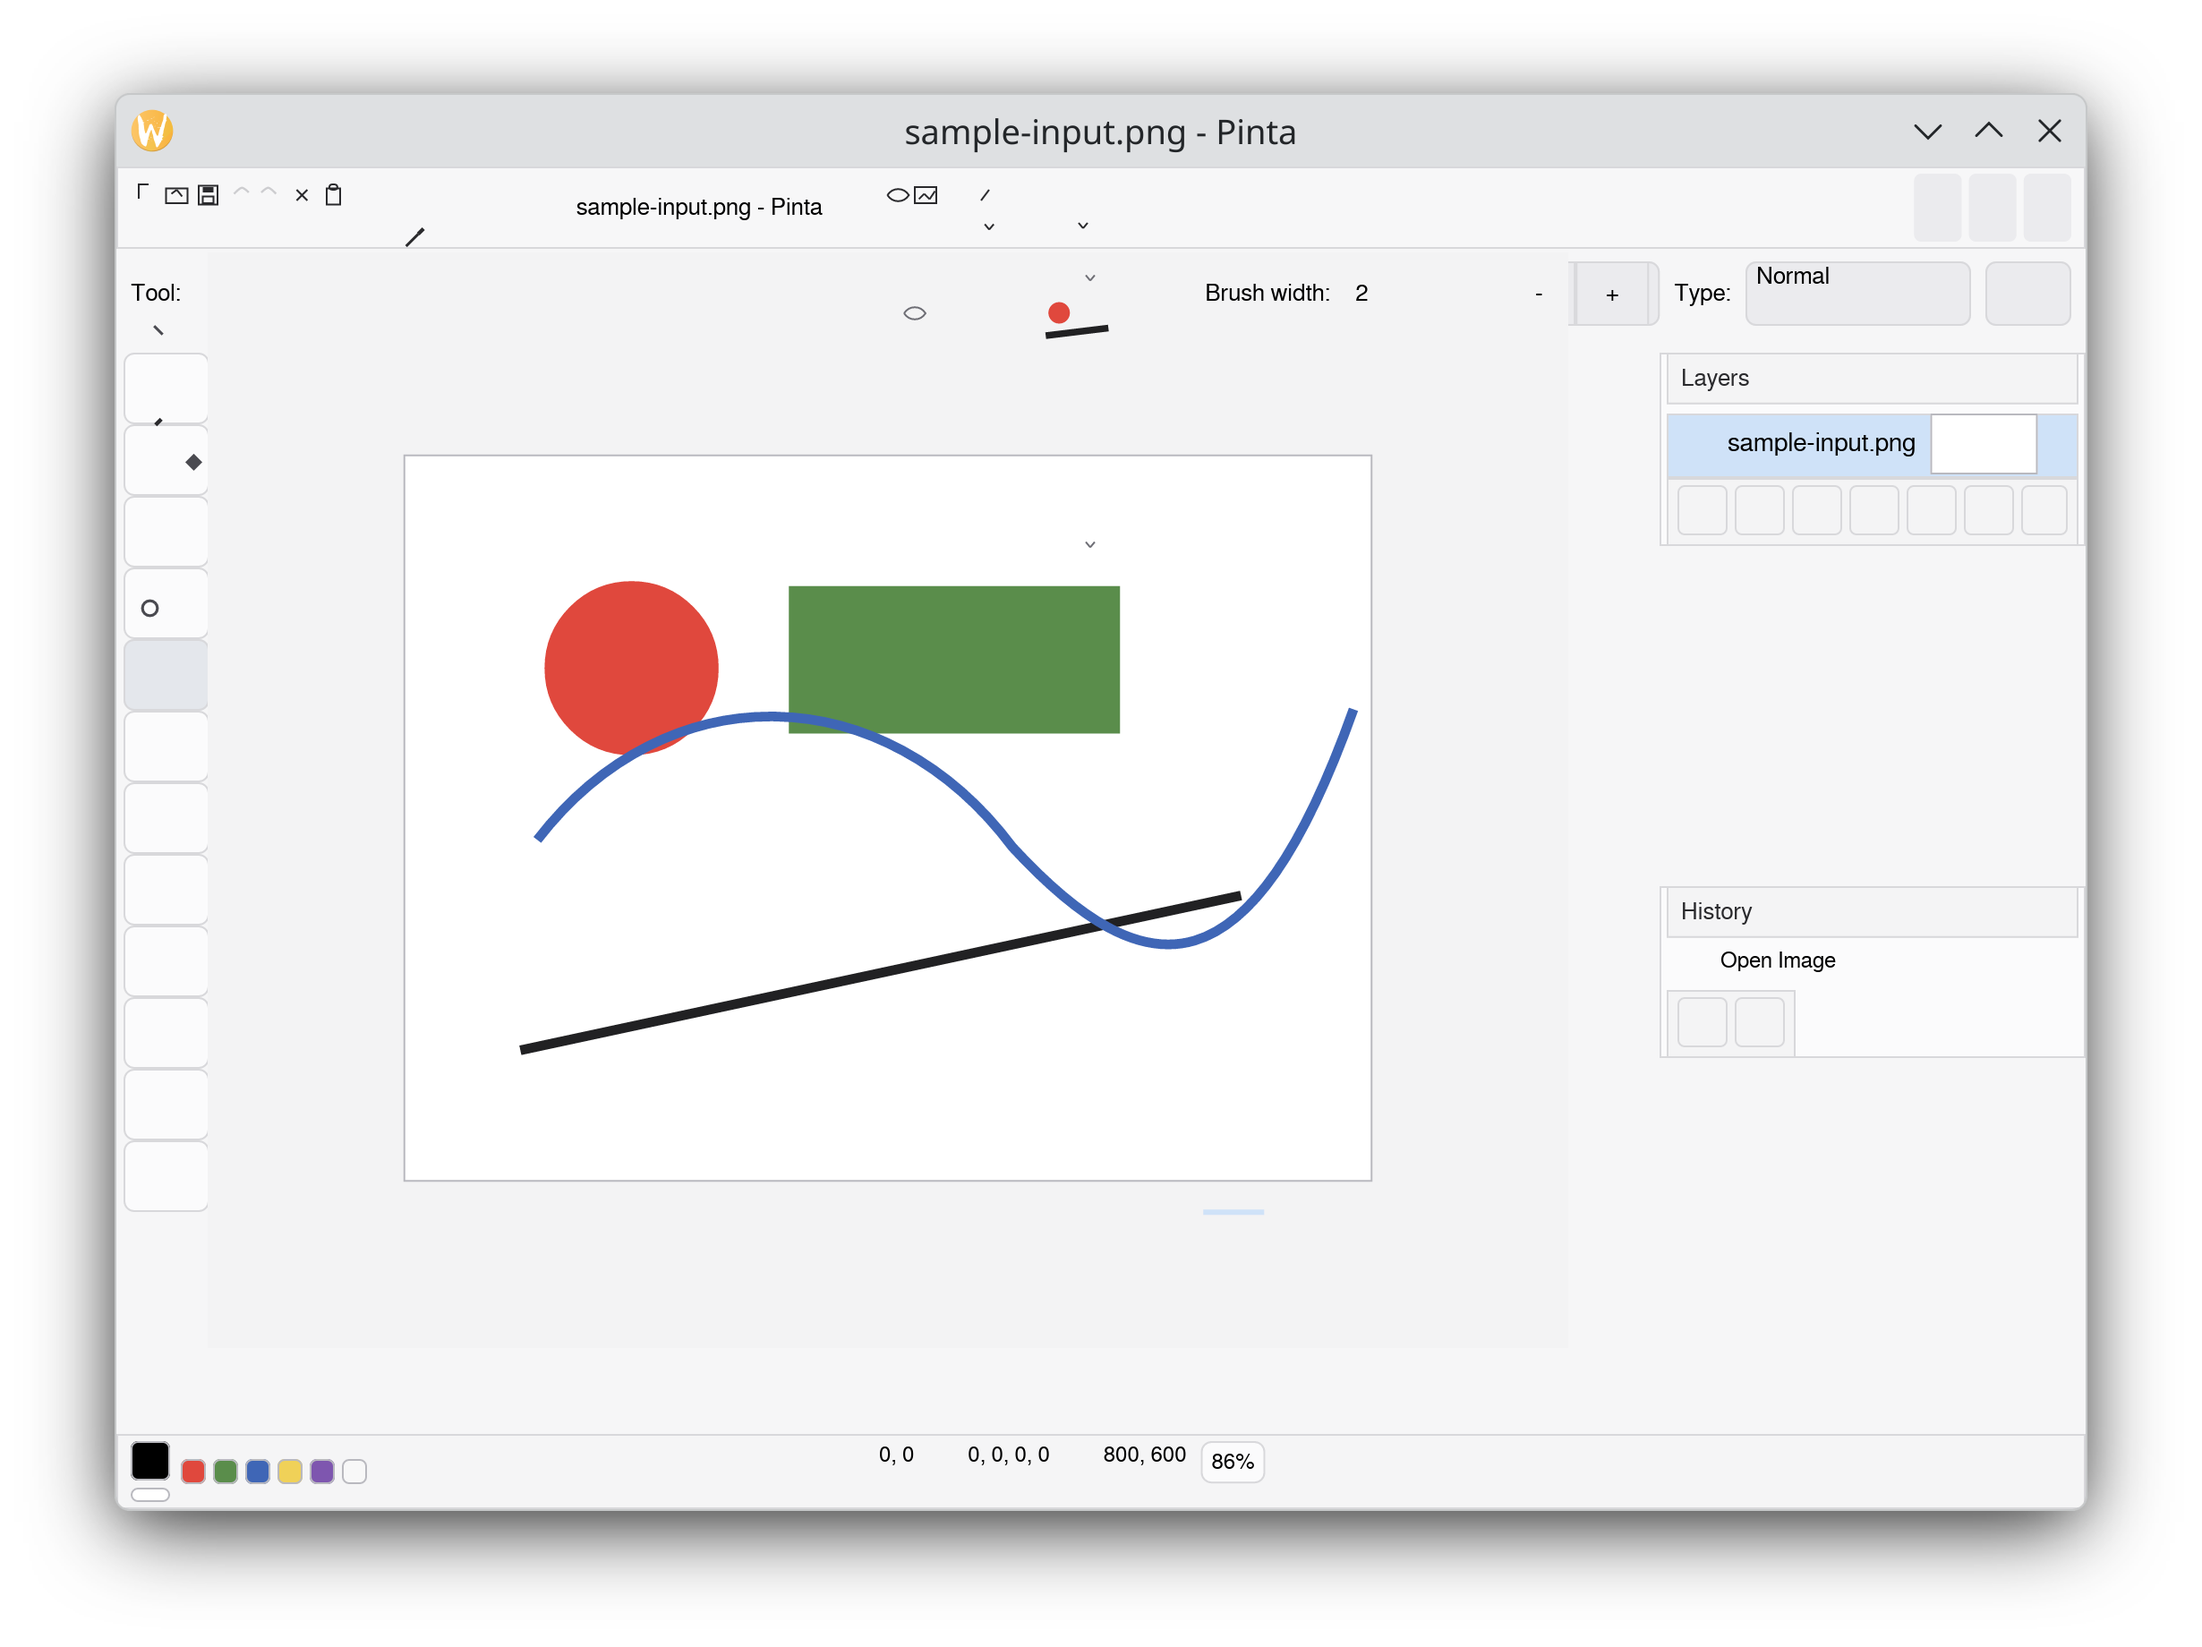
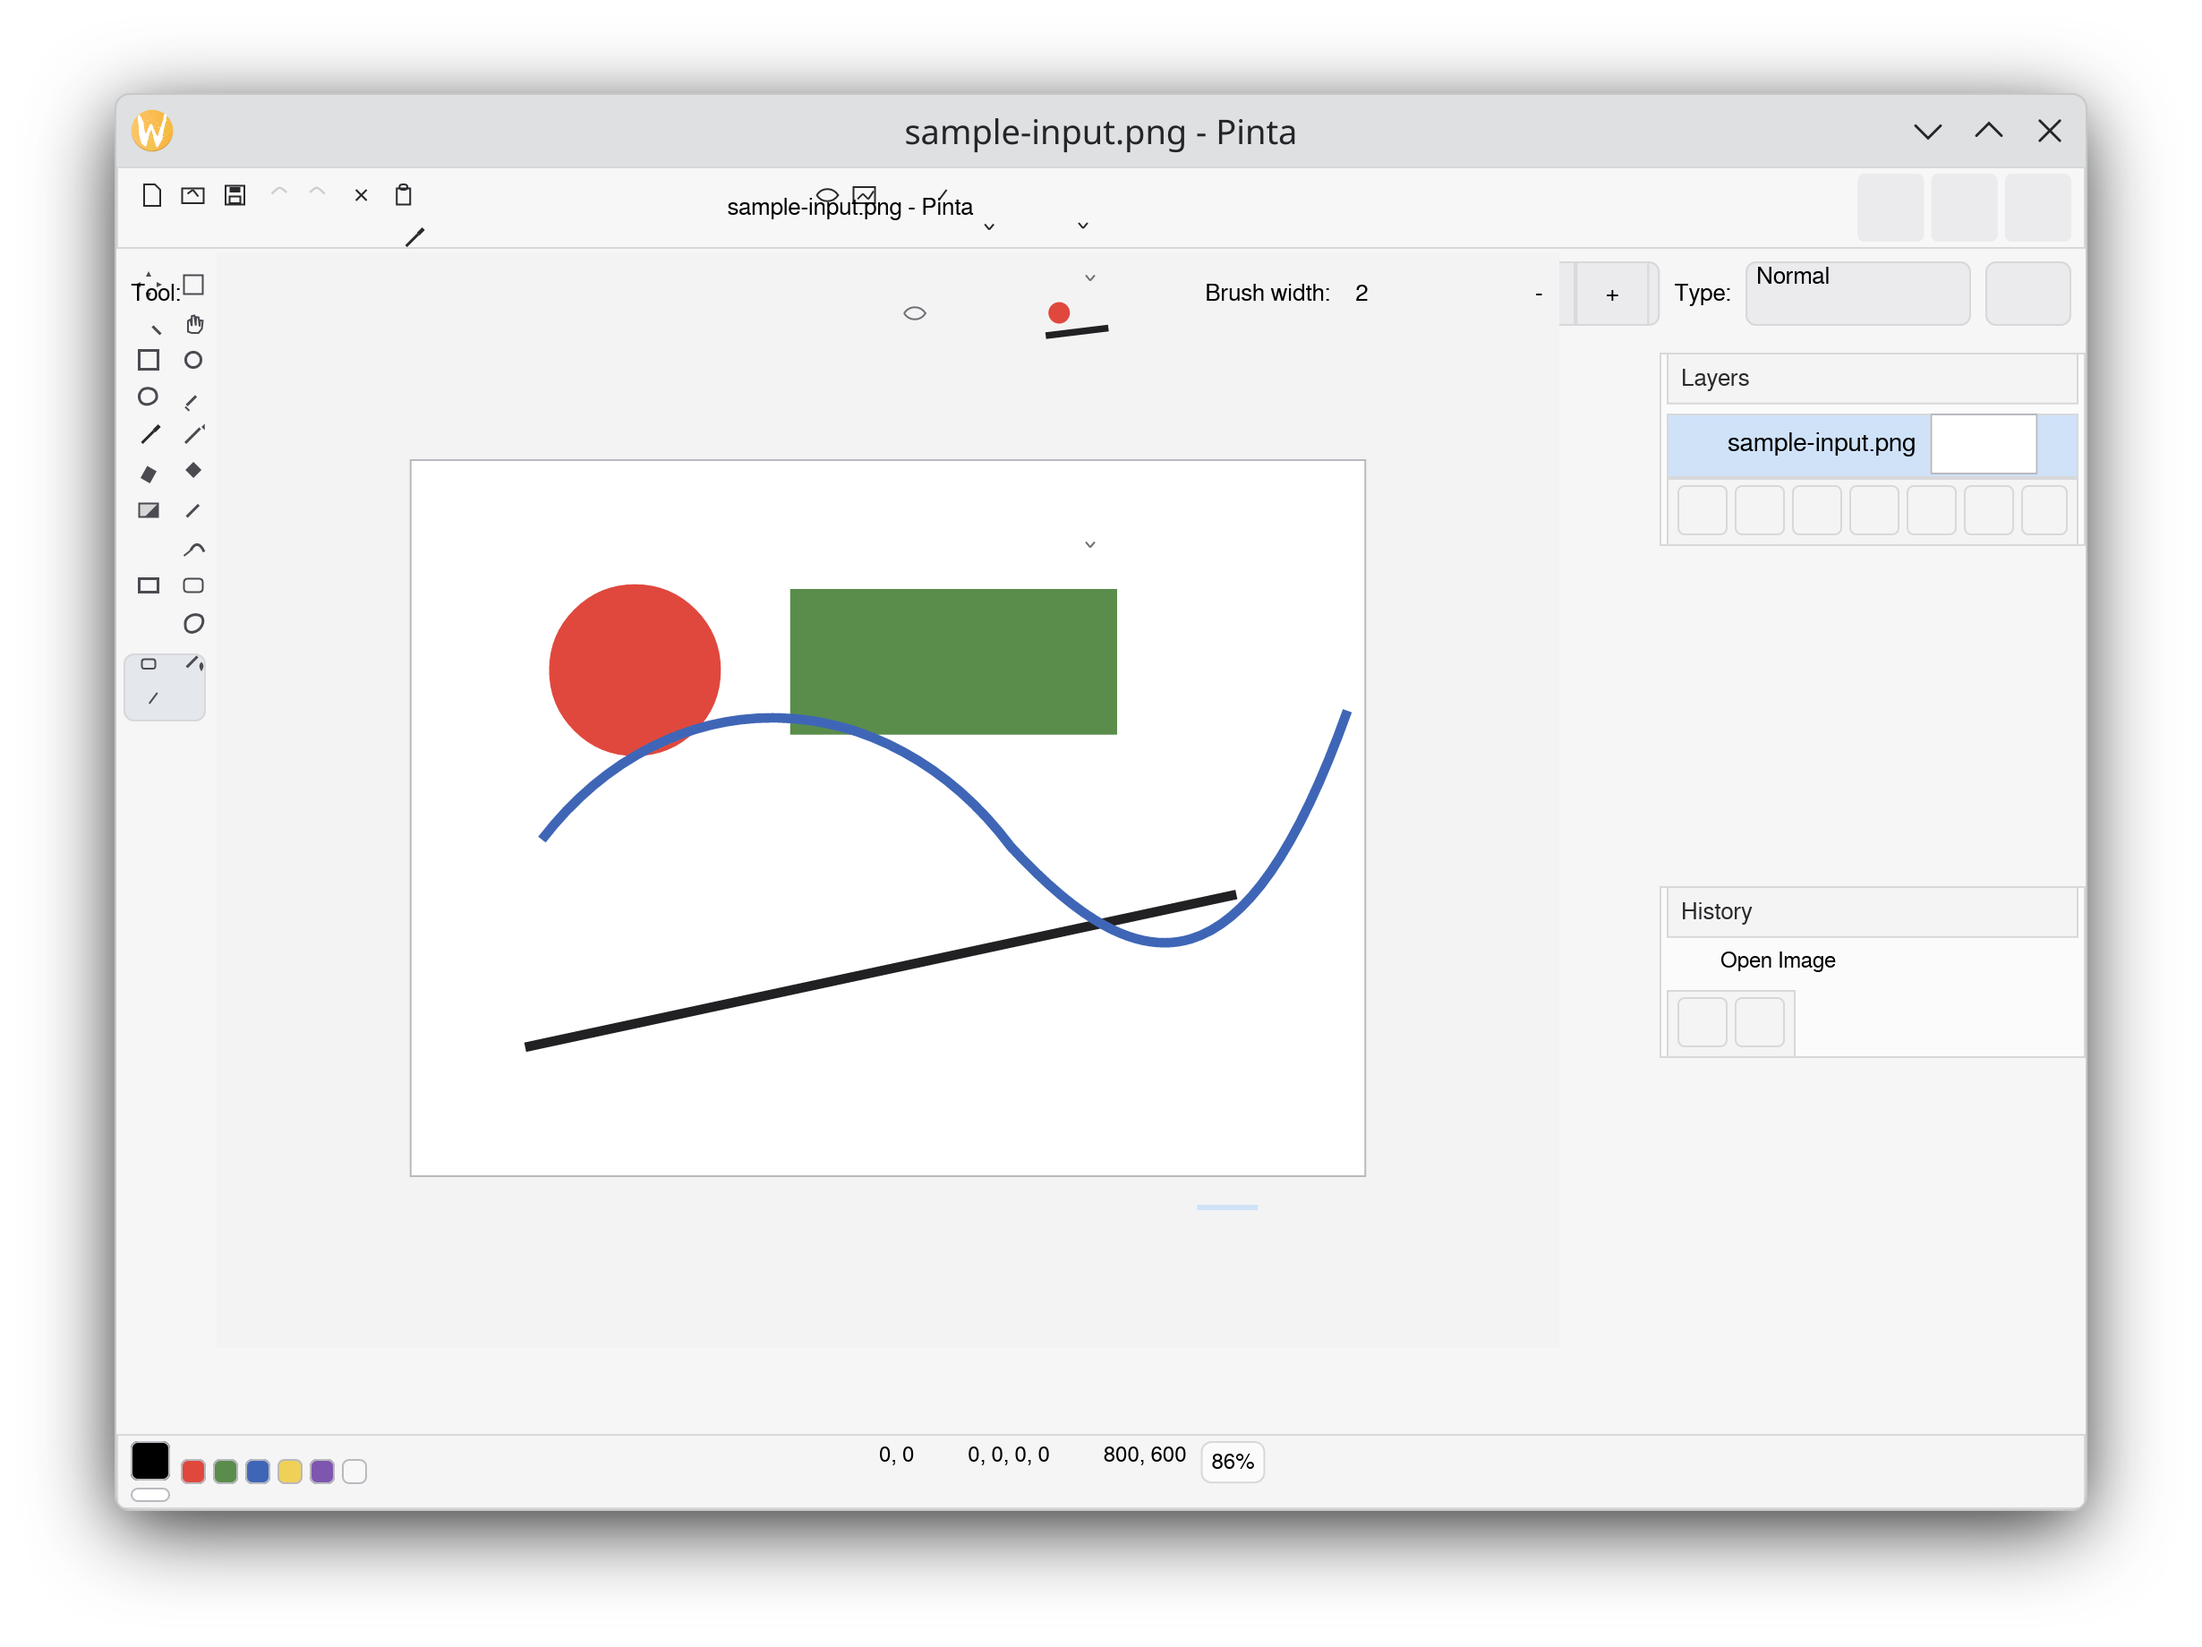
Improve toolbox parity pass

diff --git a/crates/pinta-ui/src/widgets/toolbox.rs b/crates/pinta-ui/src/widgets/toolbox.rs
@@ -15,7 +15,7 @@ pub fn view<'a, Message: Clone + 'a>(
     theme: &'a PintaTheme,
     items: impl IntoIterator<Item = ToolboxItem<Message>>,
 ) -> Element<'a, Message> {
-    let mut rows = column!().spacing(0).padding(0);
+    let mut rows = column!().spacing(theme.spacing.xs).padding(0);
     let mut pending: Option<ToolboxItem<Message>> = None;
 
     for item in items {
@@ -50,11 +50,11 @@ fn tool_button<'a, Message: Clone + 'a>(
     let base_bg = if selected {
         theme.colors.toolbox_selected_bg
     } else {
-        theme.colors.panel_bg
+        Color::TRANSPARENT
     };
 
     button(
-        container(icon::view(item.icon, 19.0, 19.0, if selected {
+        container(icon::view(item.icon, 18.0, 18.0, if selected {
             theme.colors.text_primary
         } else {
             Color::from_rgb8(0x4A, 0x4A, 0x50)
@@ -74,6 +74,12 @@ fn tool_button<'a, Message: Clone + 'a>(
                 button::Status::Active => base_bg,
             };
 
+            let border_width = if selected || matches!(status, button::Status::Hovered | button::Status::Pressed) {
+                1
+            } else {
+                0
+            };
+
             button::Style {
                 background: Some(Background::Color(background)),
                 text_color: if selected {
@@ -83,7 +89,7 @@ fn tool_button<'a, Message: Clone + 'a>(
                 },
                 border: Border::default()
                     .rounded(theme.radii.md)
-                    .width(1)
+                    .width(border_width)
                     .color(theme.colors.border_subtle),
                 shadow: Default::default(),
             }

diff --git a/crates/pinta-app/src/view/main_window.rs b/crates/pinta-app/src/view/main_window.rs
@@ -138,10 +138,10 @@ pub fn view(state: &AppState) -> Element<'_, AppMessage> {
                 chrome_button(theme, IconKind::Clipboard, false),
             ]
             .spacing(theme.spacing.xs)
-            .width(Length::FillPortion(2))
+            .width(Length::FillPortion(3))
             .align_y(Alignment::Center),
             container(text(format!("{} - Pinta", state.document_name)).size(theme.typography.toolbar))
-                .width(Length::FillPortion(5))
+                .width(Length::FillPortion(4))
                 .padding([0, theme.spacing.md])
                 .center_y(Length::Fill),
             row![
@@ -155,7 +155,7 @@ pub fn view(state: &AppState) -> Element<'_, AppMessage> {
                 round_control(theme, IconKind::WindowClose),
             ]
             .spacing(theme.spacing.xs)
-            .width(Length::FillPortion(2))
+            .width(Length::FillPortion(3))
             .align_y(Alignment::Center),
         ]
         .align_y(Alignment::Center),

diff --git a/crates/pinta-theme/src/tokens/sizing.rs b/crates/pinta-theme/src/tokens/sizing.rs
@@ -20,12 +20,12 @@ impl Default for Sizing {
         Self {
             top_bar_height: 46,
             tool_options_height: 50,
-            left_toolbar_width: 102,
+            left_toolbar_width: 112,
             right_sidebar_width: 238,
             footer_height: 42,
             dock_header_height: 34,
             dock_toolbar_height: 38,
-            toolbox_button_size: 48,
+            toolbox_button_size: 46,
             layer_row_height: 36,
             history_row_height: 24,
             palette_lead_width: 388,

diff --git a/VIBE_NOTES.md b/VIBE_NOTES.md
@@ -14,9 +14,9 @@ This file exists to resume the VIBE-coded Rust port mock of Pinta without needin
 - Branch: `main`
 - Upstream reference capture session: `../pinta-upstream/diagnostics/20260419-230608/`
 - Main upstream screenshot: `../pinta-upstream/diagnostics/20260419-230608/capture-004-main-window-spectacle.png`
-- Latest retained mock screenshot before this note: `captures/pinta-rs-20260419-194920.png`
-- Latest compare bundle before this note: `compares/20260419-194923/`
-- Latest measured RMSE before this note: `49.9070`
+- Latest retained mock screenshot before this note: `captures/pinta-rs-20260419-195432.png`
+- Latest compare bundle before this note: `compares/20260419-195434/`
+- Latest measured RMSE before this note: `49.7719`
 - Best earlier RMSE mentioned in-session: `49.2716`
 
 ## Architecture Snapshot
@@ -43,17 +43,17 @@ This file exists to resume the VIBE-coded Rust port mock of Pinta without needin
 
 - The stronger baseline is the earlier pad/canvas/shell balance associated with the lower RMSE values.
 - Recent passes kept the improved toolbox glyph work from `crates/pinta-ui/src/widgets/icon.rs` while restoring more of the earlier shell geometry.
-- The narrow pass immediately before this note adjusted:
+- The narrow post-release pass adjusted:
   - toolbox width and button size,
-  - toolbox icon scale,
-  - top-left header icon choice,
-  - top-right header ordering.
+  - toolbox icon scale and row spacing,
+  - unselected toolbox button chrome,
+  - header cluster proportions.
 
 ## Next Resume Steps
 
 1. Freeze the current shell except for toolbox vertical spacing and icon scale.
 2. Re-run `./tools/capture_mock.sh` and `./tools/compare_with_upstream.sh` against the upstream reference screenshot.
-3. If RMSE improves, refresh `docs/readme/pinta-rs-current.png` and consider a follow-up tag later.
+3. If RMSE improves further, refresh `docs/readme/pinta-rs-current.png` and consider a follow-up tag later.
 4. If RMSE regresses, keep the improved glyphs but back out only the most recent toolbox/header tweaks.
 5. After visual tuning, move from parity mock work toward real editor behaviors one surface at a time.
 
@@ -65,5 +65,5 @@ cargo run
 ./tools/capture_mock.sh
 ./tools/compare_with_upstream.sh \
   ../pinta-upstream/diagnostics/20260419-230608/capture-004-main-window-spectacle.png \
-  captures/pinta-rs-20260419-194920.png
+  captures/pinta-rs-20260419-195432.png
 ```
